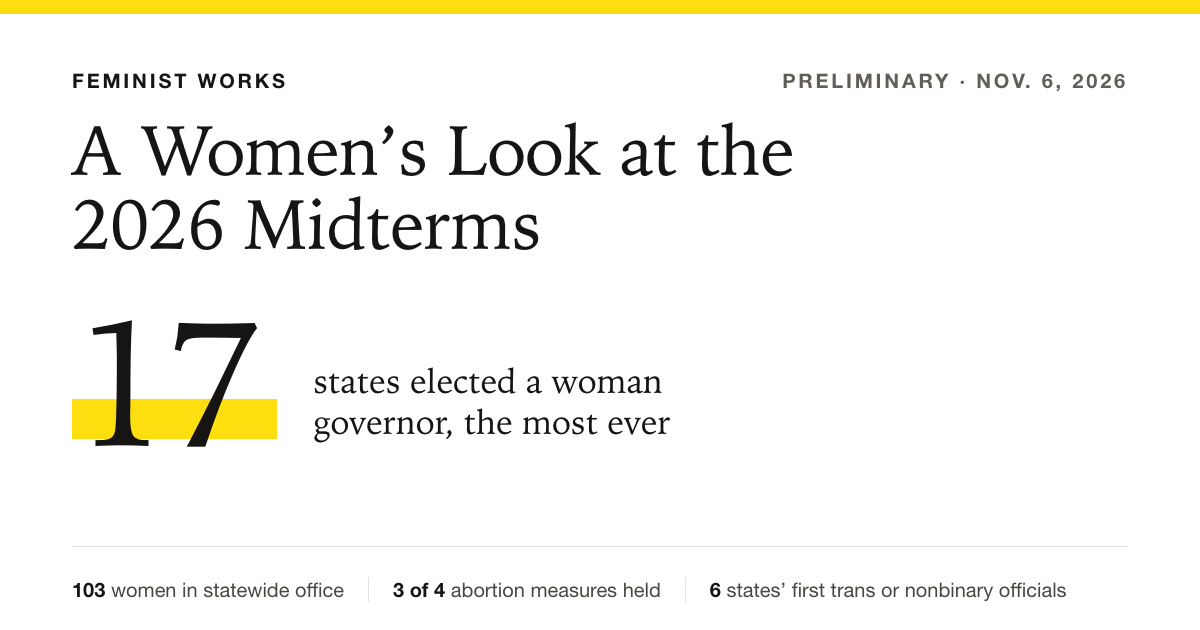
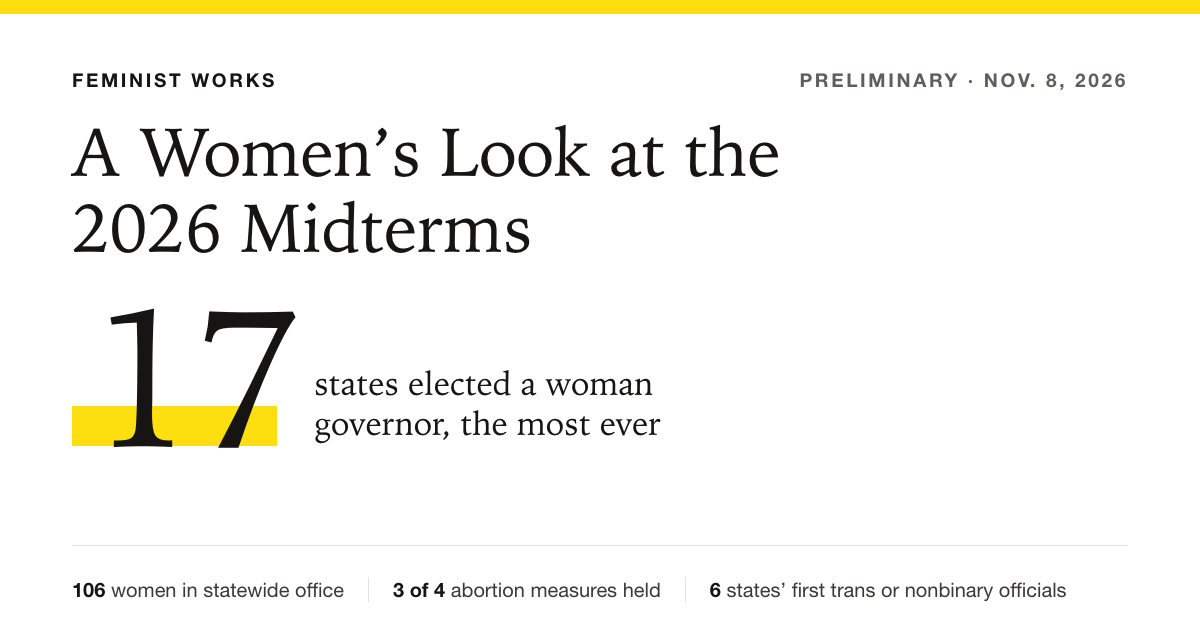
Update results through Nov. 7: Prop. 135 called, CAWP 159, Mississippi and CO-4 leads grow
CAWP (Nov. 7, 10:20 a.m. ET) now counts at least 159 women in the 120th
Congress, at least 136 in the House, and at least 106 in statewide
executive office. Colorado Prop. 135 passed, 52-48 (AP call Nov. 6).
Colom leads Hyde-Smith by 2,574 votes with about 97% counted; Laubacher
leads Boebert by 3,069. Add Alaska Senate ballot, tabulation, and
certification timeline and the dismissed DOJ suit, plus the Kansas
governor's race status. Refresh share card, dates, and sources.

diff --git a/index.html b/index.html
@@ -4,7 +4,7 @@
 <meta charset="utf-8">
 <meta name="viewport" content="width=device-width, initial-scale=1">
 <title>A Women's Look at the 2026 Midterms · Feminist Works</title>
-<meta name="description" content="The 2026 midterm results that matter to women and trans women: record governorships, Senate firsts, abortion ballot measures, trans candidates, and the gender gap. Sourced, updated Nov. 6, 2026.">
+<meta name="description" content="The 2026 midterm results that matter to women and trans women: record governorships, Senate firsts, abortion ballot measures, trans candidates, and the gender gap. Sourced, updated Nov. 8, 2026.">
 <meta property="og:title" content="A Women's Look at the 2026 Midterms">
 <meta property="og:description" content="Record governorships, Senate firsts, abortion on the ballot, trans women's wins, and how women voted. Every number sourced.">
 <meta property="og:type" content="article">
@@ -13,7 +13,7 @@
 <meta property="og:image" content="https://alfonsotech.github.io/womens-midterms-2026/og-image.png">
 <meta property="og:image:width" content="1200">
 <meta property="og:image:height" content="630">
-<meta property="og:image:alt" content="A Women's Look at the 2026 Midterms: 17 states elected a woman governor, the most ever. 103 women in statewide office, 3 of 4 abortion measures held, 6 states' first trans or nonbinary officials.">
+<meta property="og:image:alt" content="A Women's Look at the 2026 Midterms: 17 states elected a woman governor, the most ever. 106 women in statewide office, 3 of 4 abortion measures held, 6 states' first trans or nonbinary officials.">
 <meta name="twitter:card" content="summary_large_image">
 <meta name="twitter:title" content="A Women's Look at the 2026 Midterms">
 <meta name="twitter:description" content="Record governorships, Senate firsts, abortion on the ballot, trans women's wins, and how women voted. Every number sourced.">
@@ -218,7 +218,7 @@ footer .pub{color:var(--on-plum);display:block;margin-bottom:.4rem}
 <header class="mast">
   <div class="mast-top">
     <span class="pub">Feminist Works</span>
-    <span class="tnum">Updated Fri., Nov. 6, 2026 · counts through Thu. afternoon ET</span>
+    <span class="tnum">Updated Sun., Nov. 8, 2026 · counts through Sat. afternoon ET</span>
   </div>
   <div class="mast-body">
     <div>
@@ -247,7 +247,7 @@ footer .pub{color:var(--on-plum);display:block;margin-bottom:.4rem}
 
 <main>
 <section class="context" aria-label="Context">
-  <p><strong>The backdrop:</strong> Democrats won control of both chambers. As of Thursday they held <strong class="tnum">54</strong> Senate seats to <strong class="tnum">44</strong>, a gain of seven, with Alaska and Mississippi still uncalled, and a clear House majority with roughly 30 to 35 House races left to call. In Mississippi, Republican Sen. Cindy Hyde-Smith trails Democrat Scott Colom by a few dozen votes, 48.9% to 49.0%, with affidavit ballots outstanding. Party control is context here, not the story. The story is who won, what voters decided about women's bodies and trans lives, and how women cast their ballots. <span class="src">(<a href="https://www.theguardian.com/us-news/ng-interactive/2026/nov/04/midterm-elections-full-results-senate-house-governor-races">The Guardian</a>, <a href="https://www.reuters.com/3fec1b0a85a0/legal/government/democrats-seize-congress-sweeping-midterm-repudiation-trump-2026-11-04/">Reuters</a>, <a href="https://apnews.com/article/midterm-election-uncalled-races-b20c577aaffced99155af448bd182fa5">AP</a>)</span></p>
+  <p><strong>The backdrop:</strong> Democrats won control of both chambers. As of Thursday they held <strong class="tnum">54</strong> Senate seats to <strong class="tnum">44</strong>, a gain of seven, with Alaska and Mississippi still uncalled, and a clear House majority with roughly 30 to 35 House races left to call. In Mississippi, Democrat Scott Colom led Republican Sen. Cindy Hyde-Smith by 2,574 votes as of Saturday afternoon, with about 97% counted. On Wednesday morning the two were a few dozen votes apart. Affidavit ballots, which voters must validate with ID by Nov. 10, have broken heavily for Colom, and Hyde-Smith's lawyers have demanded that state officials set them aside and preserve them. Party control is context here, not the story. The story is who won, what voters decided about women's bodies and trans lives, and how women cast their ballots. <span class="src">(<a href="https://www.theguardian.com/us-news/ng-interactive/2026/nov/04/midterm-elections-full-results-senate-house-governor-races">The Guardian</a>, <a href="https://www.reuters.com/3fec1b0a85a0/legal/government/democrats-seize-congress-sweeping-midterm-repudiation-trump-2026-11-04/">Reuters</a>, <a href="https://apnews.com/article/midterm-election-uncalled-races-b20c577aaffced99155af448bd182fa5">AP</a>, <a href="https://www.ms.now/news/mississippi-senate-election-scott-colom-hyde-smith">MS NOW / AP</a>, <a href="https://www.yahoo.com/news/politics/article/how-the-mississippi-senate-race-between-scott-colom-and-cindy-hyde-smith-got-so-close--and-what-happens-next-212946040.html">Yahoo News</a>)</span></p>
 </section>
 
 <!-- ================= GOVERNORS ================= -->
@@ -257,7 +257,7 @@ footer .pub{color:var(--on-plum);display:block;margin-bottom:.4rem}
       <h2 id="h-gov">A Record Year for Women Governors</h2>
       <p>Ohio, Georgia, Tennessee, and Minnesota will have women governors for the first time. Georgia's is the first Black woman to lead any state, and New Mexico's is the first Native American woman.</p>
     </div>
-    <div class="big"><b class="tnum">103</b><span>women, at least, will hold statewide executive office, a record (CAWP, Nov. 5)</span></div>
+    <div class="big"><b class="tnum">106</b><span>women, at least, will hold statewide executive office, a record (CAWP, Nov. 7)</span></div>
   </div></div>
 
   <div class="body">
@@ -278,7 +278,7 @@ footer .pub{color:var(--on-plum);display:block;margin-bottom:.4rem}
       <li><span class="st">MA</span><span class="nm">Maura Healey<span class="pt">D</span></span><span class="ft">Reelected after expanding protections for reproductive and transgender health care</span></li>
       <li class="pending"><span class="st">+5</span><span class="nm">Five more states</span><span class="ft">In CAWP's count of 17, not yet named in the reports reviewed here</span></li>
     </ul>
-    <p class="src">Women are also in governor's races still too close to call in Alaska and Kansas (CAWP, Nov. 5). Most calls are projections. Sources: <a href="https://abc7news.com/story/women-make-history-governor-congressional-races-2026-midterms/20015679/">ABC News / CAWP</a>, <a href="https://cawp.rutgers.edu/blog/results-women-congressional-and-statewide-executive-candidates-election-2026">CAWP results, Nov. 5</a>, <a href="https://www.foxnews.com/politics/first-muslim-senator-first-black-female-governor-2026-midterm-election-results-make-history">Fox News</a>, <a href="https://glaad.org/2026-midterm-election-results-anti-trans-fearmongering-fails-as-pro-equality-candidates-win-nationwide/">GLAAD</a>.</p>
+    <p class="src">Women are also in governor's races still too close to call in Alaska and Kansas (CAWP, Nov. 7). In Kansas, Democrat Cindy Holscher leads Republican Ty Masterson 50.3% to 49.7% and has declared victory; the race is uncalled while counties hand-count a sample of precincts, and Masterson has until Nov. 17 to request a recount (<a href="https://www.yahoo.com/news/politics/live/midterms-2026-election-results-and-latest-updates-mississippi-votes-still-being-counted-in-senate-nail-biter-after-democrats-take-control-of-congress-200037541.html">Yahoo News / AP</a>, <a href="https://kansasreflector.com/2026/11/04/trailing-by-less-than-1-ty-masterson-calls-for-another-look-at-results-in-kansas-governors-race/">Kansas Reflector</a>). Most calls are projections. Sources: <a href="https://abc7news.com/story/women-make-history-governor-congressional-races-2026-midterms/20015679/">ABC News / CAWP</a>, <a href="https://cawp.rutgers.edu/blog/results-women-congressional-and-statewide-executive-candidates-election-2026">CAWP results, Nov. 7</a>, <a href="https://www.foxnews.com/politics/first-muslim-senator-first-black-female-governor-2026-midterm-election-results-make-history">Fox News</a>, <a href="https://glaad.org/2026-midterm-election-results-anti-trans-fearmongering-fails-as-pro-equality-candidates-win-nationwide/">GLAAD</a>.</p>
 
     <figure>
       <figcaption class="t">Black Women in Statewide Executive Office</figcaption>
@@ -325,7 +325,7 @@ footer .pub{color:var(--on-plum);display:block;margin-bottom:.4rem}
         <div class="seg" style="width:3.9%;background:var(--line)"></div>
         <div class="seg" style="width:47.9%;background:var(--rep)"></div>
       </div>
-      <p class="src" style="margin:.6rem 0 0">Alaska: Peltola led by 626 votes Wednesday and by about 640 as of Thursday; the race is still uncalled, and Alaska counts late-arriving ballots for days after the election. A win would make her and Flanagan the first two Native American women in the Senate. A second "Dan Sullivan" on the ballot is under a Justice Department inquiry. (<a href="https://www.usatoday.com/story/news/politics/elections/2026/11/04/alaska-senate-results-dan-sullivan-mary-peltola/92608989007/">USA Today / AP</a>)</p>
+      <p class="src" style="margin:.6rem 0 0">Alaska: Peltola led by 626 votes Wednesday and by 637 as of Thursday; the state has released no new count since, and the next update is expected Monday or Tuesday. The race is still uncalled. Mail ballots can arrive through Nov. 18, ranked-choice tabulation will likely decide it after that, and certification is set for Nov. 25. A win would make her and Flanagan the first two Native American women in the Senate. A Justice Department lawsuit over a second "Dan Sullivan" on the ballot, which sought to stop certification if the senator narrowly loses, was dismissed; the department has appealed to the 9th Circuit. (<a href="https://www.usatoday.com/story/news/politics/elections/2026/11/04/alaska-senate-results-dan-sullivan-mary-peltola/92608989007/">USA Today / AP</a>, <a href="https://adn.com/politics/2026/11/05/trump-weighs-in-on-alaskas-tight-us-senate-race-as-thousands-of-ballots-are-yet-to-be-tallied">Anchorage Daily News</a>)</p>
     </div>
   </div>
 </section>
@@ -335,18 +335,18 @@ footer .pub{color:var(--on-plum);display:block;margin-bottom:.4rem}
   <div class="opener"><div class="opener-in">
     <div>
       <h2 id="h-con">A Record Number of Women in Congress</h2>
-      <p>On Wednesday, CAWP's early count pointed to fewer women in the next Congress. As more House races were called, it rose past the current record of 152. At least 135 women will serve in the House, also a record.</p>
+      <p>On Wednesday, CAWP's early count pointed to fewer women in the next Congress. As more House races were called, it rose past the current record of 152. At least 136 women will serve in the House, also a record.</p>
     </div>
-    <div class="big"><b class="tnum">158</b><span>women, at least, will serve in the next Congress, up from a record 152 now <span class="prelim" style="display:inline-block;margin-top:.4rem">Preliminary</span></span></div>
+    <div class="big"><b class="tnum">159</b><span>women, at least, will serve in the next Congress, up from a record 152 now <span class="prelim" style="display:inline-block;margin-top:.4rem">Preliminary</span></span></div>
   </div></div>
 
   <div class="body">
     <figure>
       <figcaption class="t">Women in Congress</figcaption>
-      <p class="sub">Senate and House combined. The 2027 figure is CAWP's count as of 4 p.m. ET on Nov. 5: 139 women who have won, 16 senators not up this year, and 3 undecided House races where both nominees are women.</p>
+      <p class="sub">Senate and House combined. The 2027 figure is CAWP's count as of 10:20 a.m. ET on Nov. 7: 141 women who have won, 16 senators not up this year, and 2 undecided House races where both nominees are women. Thirteen more women are in House races still too close to call.</p>
       <div class="bars grow">
-        <div class="row" tabindex="0" data-tip="Women serving in the current (119th) Congress: 152, the record until now. Source: CAWP."><span class="lab">Serving now</span><div class="trk"><div class="fill" style="width:96.2%;background:#b9b6b0"></div></div><span class="val tnum">152</span></div>
-        <div class="row" tabindex="0" data-tip="120th Congress, beginning January 2027: at least 158, as of Nov. 5, 4 p.m. ET. Was 139 on Nov. 4. Source: CAWP."><span class="lab">Jan. 2027<small>at least, as of Nov. 5</small></span><div class="trk"><div class="fill" style="width:100%;background:var(--ink)"></div></div><span class="val tnum">158+</span></div>
+        <div class="row" tabindex="0" data-tip="Women serving in the current (119th) Congress: 152, the record until now. Source: CAWP."><span class="lab">Serving now</span><div class="trk"><div class="fill" style="width:95.6%;background:#b9b6b0"></div></div><span class="val tnum">152</span></div>
+        <div class="row" tabindex="0" data-tip="120th Congress, beginning January 2027: at least 159, as of Nov. 7, 10:20 a.m. ET. Was 139 on Nov. 4 and 158 on Nov. 5. Source: CAWP."><span class="lab">Jan. 2027<small>at least, as of Nov. 7</small></span><div class="trk"><div class="fill" style="width:100%;background:var(--ink)"></div></div><span class="val tnum">159+</span></div>
       </div>
     </figure>
 
@@ -357,10 +357,10 @@ footer .pub{color:var(--on-plum);display:block;margin-bottom:.4rem}
       <li><span class="st">NY-17</span><span class="nm">Cait Conley<span class="pt">D · flip</span></span><span class="ft">Army veteran, out LGBTQ; unseated Rep. Mike Lawler</span></li>
       <li><span class="st">AZ-6</span><span class="nm">JoAnna Mendoza<span class="pt">D · flip</span></span><span class="ft">Marine veteran, out LGBTQ; unseated Rep. Juan Ciscomani, 53–45 (AP call Nov. 5)</span></li>
       <li><span class="st">CA-48</span><span class="nm">Marni von Wilpert<span class="pt">D · flip</span></span><span class="ft">Out LGBTQ; won an open GOP-held seat, ran on reproductive freedom</span></li>
-      <li class="pending"><span class="st">CO-4</span><span class="nm">Eileen Laubacher<span class="pt">D</span></span><span class="ft">Leads Rep. Lauren Boebert by 2,513 votes, 48.7% to 48.0%, as of Thursday noon in a Trump +18 district. Not called; Boebert has not conceded.</span></li>
+      <li class="pending"><span class="st">CO-4</span><span class="nm">Eileen Laubacher<span class="pt">D</span></span><span class="ft">Leads Rep. Lauren Boebert by 3,069 votes, less than a percentage point, as of Friday, up from 2,513 Thursday, in a Trump +18 district. Not called; Boebert's attorney says the campaign expects a recount. Colorado recounts automatically within 0.5%.</span></li>
       <li><span class="st">VI</span><span class="nm">Janelle Sarauw<span class="pt">D</span></span><span class="ft">Leading for U.S. Virgin Islands delegate, about 77%</span></li>
     </ul>
-    <p class="src">Sources: <a href="https://abc7news.com/story/women-make-history-governor-congressional-races-2026-midterms/20015679/">ABC News / CAWP</a>, <a href="https://cawp.rutgers.edu/blog/results-women-congressional-and-statewide-executive-candidates-election-2026">CAWP, Nov. 5</a>, <a href="https://www.foxnews.com/elections/2026/midterm-results/house">AP race calls via Fox News</a>, <a href="https://www.cbsnews.com/colorado/news/colorados-4th-congressional-district-remained-undecided-election-day/">CBS Colorado</a>, <a href="https://www.washingtonblade.com/2026/11/04/record-number-lgbtq-lawmakers-elected-congress-midterms/">Washington Blade</a>. The Blade reports 17 of 18 LGBTQ federal candidates won, a record for Congress.</p>
+    <p class="src">Sources: <a href="https://abc7news.com/story/women-make-history-governor-congressional-races-2026-midterms/20015679/">ABC News / CAWP</a>, <a href="https://cawp.rutgers.edu/blog/results-women-congressional-and-statewide-executive-candidates-election-2026">CAWP, Nov. 7</a>, <a href="https://www.foxnews.com/elections/2026/midterm-results/house">AP race calls via Fox News</a>, <a href="https://www.cbsnews.com/colorado/news/colorados-4th-congressional-district-remained-undecided-election-day/">CBS Colorado</a>, <a href="https://gazette.com/2026/11/06/laubacher-maintains-lead-in-latest-congressional-election-results/">Colorado Springs Gazette</a>, <a href="https://www.washingtonblade.com/2026/11/04/record-number-lgbtq-lawmakers-elected-congress-midterms/">Washington Blade</a>. The Blade reports 17 of 18 LGBTQ federal candidates won, a record for Congress.</p>
   </div>
 </section>
 
@@ -420,7 +420,7 @@ footer .pub{color:var(--on-plum);display:block;margin-bottom:.4rem}
   <div class="opener"><div class="opener-in">
     <div>
       <h2 id="h-ballot">Abortion Rights Mostly Held. Trans Rights Mostly Didn't.</h2>
-      <p>Voters protected abortion rights in Nevada, Virginia, and Missouri, but kept Idaho's near-total ban. Most measures restricting trans people passed or were leading; the one that failed was bundled with an abortion ban.</p>
+      <p>Voters protected abortion rights in Nevada, Virginia, and Missouri, but kept Idaho's near-total ban. Every measure restricting trans people passed except one, and that one was bundled with an abortion ban.</p>
     </div>
     <div class="big"><b class="tnum">3 of 4</b><span>abortion measures went the way abortion-rights supporters wanted</span></div>
   </div></div>
@@ -453,30 +453,31 @@ footer .pub{color:var(--on-plum);display:block;margin-bottom:.4rem}
 
     <figure>
       <figcaption class="t">Measures Targeting Trans People: Share Voting Yes</figcaption>
-      <p class="sub">Every one of these would restrict trans people. Several were still being counted.</p>
+      <p class="sub">Every one of these restricts trans people. All have now been called.</p>
       <div class="bars grow">
         <div class="row" tabindex="0" data-tip="Arizona Prop. 318: bars trans students and adults from school bathrooms, locker rooms, and sports matching their gender. Yes 58.9%, 84% in. Passed. Source: NBC News."><span class="lab">Arizona Prop. 318<small>School facilities and sports</small></span><div class="trk"><div class="fill" style="width:58.9%;background:var(--restrict)"></div><span class="half"></span></div><span class="val tnum">58.9% <span class="out no">Passed</span></span></div>
         <div class="row" tabindex="0" data-tip="Colorado Prop. 134: school sports by sex assigned at birth. Yes about 53% as of Thursday. Passed. Source: The Colorado Sun, Nov. 5."><span class="lab">Colorado Prop. 134<small>School sports</small></span><div class="trk"><div class="fill" style="width:53%;background:var(--restrict)"></div><span class="half"></span></div><span class="val tnum">53% <span class="out no">Passed</span></span></div>
-        <div class="row" tabindex="0" data-tip="Colorado Prop. 135: bans gender-affirming surgery for minors. Yes 51.9%, 76% in, as of Wednesday. Still too close to call Thursday. Source: NBC News."><span class="lab">Colorado Prop. 135<small>Minors' gender-affirming surgery</small></span><div class="trk"><div class="fill" style="width:51.9%;background:var(--restrict)"></div><span class="half"></span></div><span class="val tnum">51.9% <span class="out tbd">Too close</span></span></div>
+        <div class="row" tabindex="0" data-tip="Colorado Prop. 135: bans gender-affirming surgery for minors. Yes 52% to 48%, a margin of more than 104,000 votes, as of Friday morning. Passed; AP called it Nov. 6. Source: The Colorado Sun."><span class="lab">Colorado Prop. 135<small>Minors' gender-affirming surgery</small></span><div class="trk"><div class="fill" style="width:52%;background:var(--restrict)"></div><span class="half"></span></div><span class="val tnum">52% <span class="out no">Passed</span></span></div>
         <div class="row" tabindex="0" data-tip="Washington Initiative 638: bars trans girls from girls' school sports and requires a provider statement of sex for every K–12 girl who plays. Yes 56.6% as of Wednesday evening. Passed, per AP; opponents conceded. Source: Axios Seattle."><span class="lab">Washington I-638<small>Girls' sports, sex verification</small></span><div class="trk"><div class="fill" style="width:56.6%;background:var(--restrict)"></div><span class="half"></span></div><span class="val tnum">56.6% <span class="out no">Passed</span></span></div>
       </div>
       <ul class="prose" style="margin-top:1.25rem;font-size:1rem">
         <li><strong>Nebraska</strong> approved a ban on trans girls and women playing on girls' and women's teams. Vote share not reported in the sources reviewed.</li>
         <li><strong>Washington</strong>'s I-638 passed, and opponents conceded. Every K–12 girl who plays school sports will need a health care provider's statement of her sex. It takes effect Dec. 3.</li>
+        <li><strong>Colorado</strong>'s Prop. 135 passed narrowly, 52% to 48%, after early returns showed it failing. It bans gender-affirming surgery for anyone under 18 but leaves puberty blockers, hormones, and counseling alone. The state's major children's hospitals already say they do not perform these surgeries on minors.</li>
         <li><strong>Missouri</strong> was the only state where new trans restrictions failed, because voters rejected the abortion repeal they were bundled with.</li>
       </ul>
       <details class="tv"><summary>View as table</summary>
         <table><thead><tr><th>Measure</th><th>Yes</th><th>Status</th></tr></thead><tbody>
           <tr><td>Arizona Prop. 318</td><td>58.9%</td><td>Passed</td></tr>
           <tr><td>Colorado Prop. 134</td><td>53%</td><td>Passed</td></tr>
-          <tr><td>Colorado Prop. 135</td><td>51.9%</td><td>Too close to call</td></tr>
+          <tr><td>Colorado Prop. 135</td><td>52%</td><td>Passed</td></tr>
           <tr><td>Nebraska sports measure</td><td>n/a</td><td>Passed</td></tr>
           <tr><td>Washington I-638</td><td>56.6%</td><td>Passed</td></tr>
           <tr><td>Missouri Amend. 3</td><td>44.5%</td><td>Failed</td></tr>
         </tbody></table>
       </details>
     </figure>
-    <p class="src">Sources: <a href="https://www.nbcnews.com/politics/2026-elections/ballot-measures">NBC News ballot tracker</a>, <a href="https://www.yahoo.com/news/politics/article/abortion-transgender-rights-and-voter-id-ballot-measure-results-from-the-2026-midterms-191855364.html">Yahoo News</a>, <a href="https://idahocapitalsun.com/2026/11/03/live-updates-heres-the-latest-on-idahos-2026-general-election/">Idaho Capital Sun</a>, <a href="https://glaad.org/fact-sheet-for-reporters-lgbtq-related-ballot-measures-in-the-2026-midterm-elections/">GLAAD fact sheet</a>, <a href="https://coloradosun.com/2026/11/05/proposition-134-transgender-youth-sports-passes/">The Colorado Sun</a>, <a href="https://www.axios.com/local/seattle/2026/11/05/washington-2026-i638-school-sports-transgender-election-results">Axios Seattle</a>. Shares are as of Wednesday or Thursday.</p>
+    <p class="src">Sources: <a href="https://www.nbcnews.com/politics/2026-elections/ballot-measures">NBC News ballot tracker</a>, <a href="https://www.yahoo.com/news/politics/article/abortion-transgender-rights-and-voter-id-ballot-measure-results-from-the-2026-midterms-191855364.html">Yahoo News</a>, <a href="https://idahocapitalsun.com/2026/11/03/live-updates-heres-the-latest-on-idahos-2026-general-election/">Idaho Capital Sun</a>, <a href="https://glaad.org/fact-sheet-for-reporters-lgbtq-related-ballot-measures-in-the-2026-midterm-elections/">GLAAD fact sheet</a>, <a href="https://coloradosun.com/2026/11/05/proposition-134-transgender-youth-sports-passes/">The Colorado Sun</a>, <a href="https://www.axios.com/local/seattle/2026/11/05/washington-2026-i638-school-sports-transgender-election-results">Axios Seattle</a>, <a href="https://coloradosun.com/2026/11/06/proposition-135-results-ban-gender-surgeries-passes/">The Colorado Sun on Prop. 135</a>. Shares are as of Wednesday through Friday.</p>
   </div>
 </section>
 
@@ -545,7 +546,7 @@ footer .pub{color:var(--on-plum);display:block;margin-bottom:.4rem}
 
 <section class="sources" id="sources" aria-labelledby="h-src">
   <h2 id="h-src">Sources</h2>
-  <p class="src" style="margin:0 0 1rem;max-width:var(--col)">All reporting from Nov. 3–5, 2026. Results change as ballots are counted; this page reflects counts through Thursday afternoon Eastern time. The AP live results page is at <a href="https://apnews.com/live/midterm-election-2026">apnews.com/live/midterm-election-2026</a>.</p>
+  <p class="src" style="margin:0 0 1rem;max-width:var(--col)">All reporting from Nov. 3–7, 2026. Results change as ballots are counted; this page reflects counts through Saturday afternoon Eastern time. The AP live results page is at <a href="https://apnews.com/live/midterm-election-2026">apnews.com/live/midterm-election-2026</a>.</p>
   <ol>
     <li><a href="https://abc7news.com/story/women-make-history-governor-congressional-races-2026-midterms/20015679/">ABC News, “Women make history in governor, congressional races”</a> (CAWP figures)</li>
     <li><a href="https://www.nbcnews.com/politics/2026-elections/exit-polls">NBC News, 2026 National Exit Poll</a></li>
@@ -562,18 +563,24 @@ footer .pub{color:var(--on-plum);display:block;margin-bottom:.4rem}
     <li><a href="https://www.reuters.com/3fec1b0a85a0/legal/government/democrats-seize-congress-sweeping-midterm-repudiation-trump-2026-11-04/">Reuters, “Democrats seize Congress”</a></li>
     <li><a href="https://apnews.com/article/midterm-election-uncalled-races-b20c577aaffced99155af448bd182fa5">AP, races not yet called</a></li>
     <li><a href="https://idahocapitalsun.com/2026/11/03/live-updates-heres-the-latest-on-idahos-2026-general-election/">Idaho Capital Sun, Idaho results</a></li>
-    <li><a href="https://cawp.rutgers.edu/blog/results-women-congressional-and-statewide-executive-candidates-election-2026">CAWP, results for women candidates (updated Nov. 5, 4 p.m. ET)</a></li>
+    <li><a href="https://cawp.rutgers.edu/blog/results-women-congressional-and-statewide-executive-candidates-election-2026">CAWP, results for women candidates (updated Nov. 7, 10:20 a.m. ET)</a></li>
     <li><a href="https://www.foxnews.com/elections/2026/midterm-results/house">Fox News, House results with AP call times</a></li>
     <li><a href="https://www.cbsnews.com/colorado/news/colorados-4th-congressional-district-remained-undecided-election-day/">CBS Colorado, 4th District still undecided</a></li>
     <li><a href="https://coloradosun.com/2026/11/05/proposition-134-transgender-youth-sports-passes/">The Colorado Sun, Proposition 134 passes</a></li>
     <li><a href="https://www.axios.com/local/seattle/2026/11/05/washington-2026-i638-school-sports-transgender-election-results">Axios Seattle, Washington approves I-638</a></li>
     <li><a href="https://www.nbcnews.com/politics/2026-elections/mississippi-senate-results">NBC News, Mississippi Senate results</a></li>
+    <li><a href="https://www.ms.now/news/mississippi-senate-election-scott-colom-hyde-smith">MS NOW, Colom's lead widens in Mississippi</a></li>
+    <li><a href="https://www.yahoo.com/news/politics/article/how-the-mississippi-senate-race-between-scott-colom-and-cindy-hyde-smith-got-so-close--and-what-happens-next-212946040.html">Yahoo News, how the Mississippi Senate race got so close</a></li>
+    <li><a href="https://adn.com/politics/2026/11/05/trump-weighs-in-on-alaskas-tight-us-senate-race-as-thousands-of-ballots-are-yet-to-be-tallied">Anchorage Daily News, ballots yet to be tallied in Alaska</a></li>
+    <li><a href="https://gazette.com/2026/11/06/laubacher-maintains-lead-in-latest-congressional-election-results/">Colorado Springs Gazette, Laubacher maintains lead</a></li>
+    <li><a href="https://coloradosun.com/2026/11/06/proposition-135-results-ban-gender-surgeries-passes/">The Colorado Sun, Proposition 135 passes</a></li>
+    <li><a href="https://kansasreflector.com/2026/11/04/trailing-by-less-than-1-ty-masterson-calls-for-another-look-at-results-in-kansas-governors-race/">Kansas Reflector, Kansas governor's race</a></li>
   </ol>
 </section>
 
 <footer>
   <span class="pub">Feminist Works</span>
-  Results are preliminary, updated Nov. 6, 2026. Projected calls are marked. Corrections are welcome.
+  Results are preliminary, updated Nov. 8, 2026. Projected calls are marked. Corrections are welcome.
 </footer>
 
 <div class="tip" role="tooltip" id="tip"></div>
